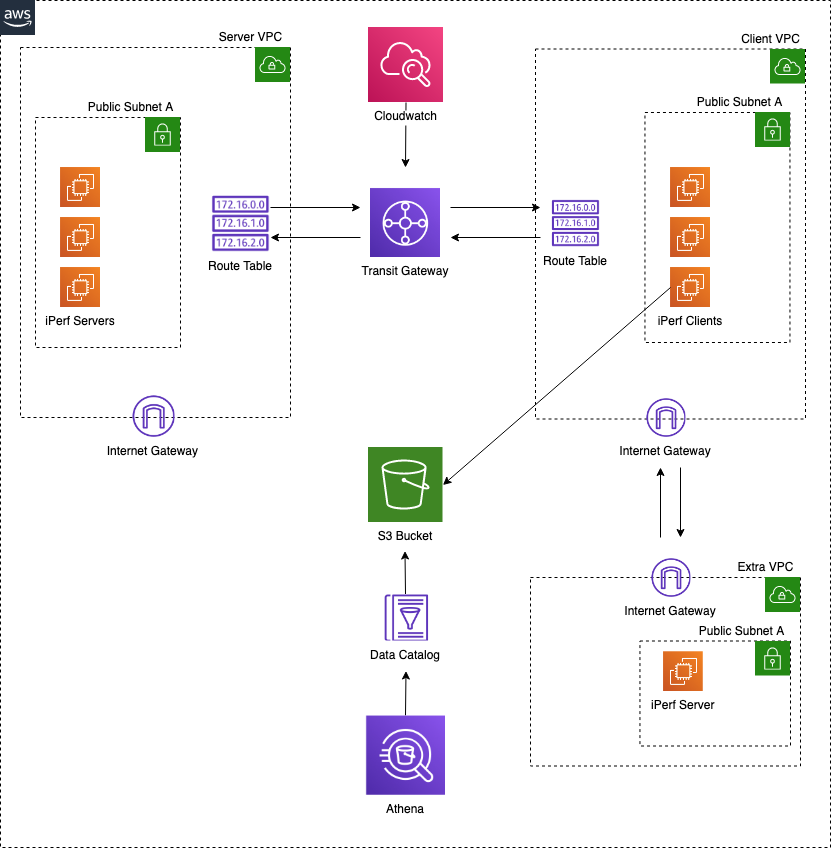
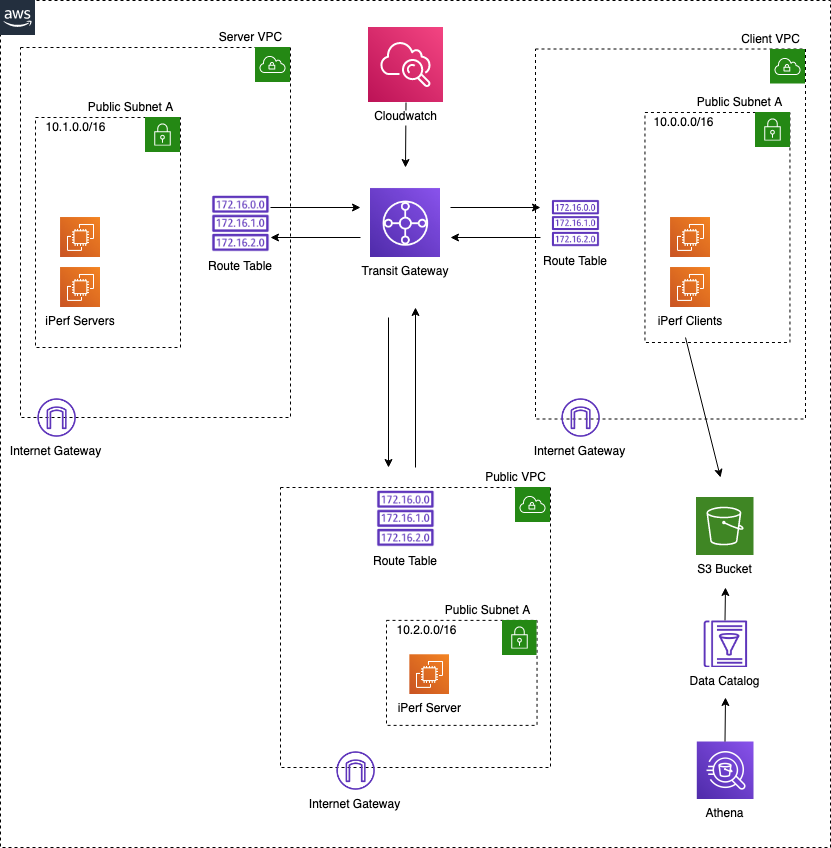
updates

diff --git a/README.md b/README.md
@@ -8,11 +8,9 @@ Proof of Concept to showcase the inter-VPC network speeds achieved with Transit 
 
 AWS Transit Gateway is a service that enables customers to connect their Amazon Virtual Private Clouds (VPCs) and their on-premises networks to a single gateway. As you grow the number of workloads running on AWS, you need to be able to scale your networks across multiple accounts and Amazon VPCs to keep up with the growth.
 
-With AWS Transit Gateway, you only have to create and manage a single connection from the central gateway in to each Amazon VPC, on-premises data center, or remote office across your network. Transit Gateway acts as a hub that controls how traffic is routed among all the connected networks which act like spokes. This hub and spoke model significantly simplifies management and reduces operational costs because each network only has to connect to the Transit Gateway and not to every other network. Any new VPC is simply connected to the Transit Gateway and is then automatically available to every other network that is connected to the Transit Gateway. This ease of connectivity makes it easy to scale your network as you grow.
-
 [via ![AWS Transit Gateway](https://aws.amazon.com/transit-gateway/)]
 
-Transit Gateway offers the following Performance and Limits:
+Transit Gateway offers the following bandwidth performance:
 
 **Maximum bandwidth (burst) per VPC, Direct Connect gateway, or peered Transit Gateway connection: 50 Gbps**
 
@@ -26,19 +24,61 @@ This GitHub Repository offers a cloudformation template to test this limit.
 
 ----
 
-## Tutorial
+## Deploying Cloudformation
 
-### Step 1: Deploy Cloudformation
+### Step 1A: Existing architecture
+
+Deploys iPerf3 EC2 client-server pairs in existing VPCs/subnets.
 
 - Download/Clone git repo
-- Go to Cloudformation Console and deploy cloudformation/master.yml
-- For Parameters, choose the public key you want for SSH access. 
-- There are two parameters pDebugTest and pFullTest
-  - pDebugTest will deploy 3 VPCs and 3 EC2s. 1 client / 1 server / 1 extra
-  - pFullTest will deploy 3 VPCs and 11 EC2s. 5 client / 5 server / 1 extra (this will ensure maximizing TGW bandwidth)
+- Go to Cloudformation Console and deploy cloudformation/master-existing-network.yml
+- Supply the cloudformation template with all of your existing network information (VPC IDs, Subnet IDs, etc.)
+- Important Parameters:
+  - **pCronExpression** determines the cron schedule that you want to run the iperf tests
+    - leave this field blank if you don't want to run iperf tests on a schedule
+    - leave this field blank if you'd like to use SSM Run Command instead
+  - **pFullTest** determines how many EC2's you'd like to deploy.
+    - pFullTest = false : good for cost-effective debugging
+    - pFullTest = true : will ensure maximizing TGW bandwidth
+
+### (Optional) Step 1B: New architecture
+
+Deploys an entirely brand new networking infrastructure.
+
+- Download/Clone git repo
+- Go to Cloudformation Console and deploy cloudformation/master-new-network.yml
+- Important Parameters:
+  - **pCronExpression** determines the cron schedule that you want to run the iperf tests
+    - leave this field blank if you don't want to run iperf tests on a schedule
+    - leave this field blank if you'd like to use SSM Run Command instead
+  - **pFullTest** determines how many EC2's you'd like to deploy.
+    - pFullTest = false : good for cost-effective debugging
+    - pFullTest = true : will ensure maximizing TGW bandwidth
 - Click next, then create.
 
-### Step 2: Setup Cloudwatch Dashboard
+## Performing iPerf3 Tests
+
+### Step 2A : Cron Task
+
+- If you left pCronExpression blank, move on to Step 2B. Otherwise:
+- The cron task will automatically execute based on the provided cron expression. There's nothing you need to do.
+- Wait 3-5 minutes for data to start trickling in.
+
+### (Optional) Step 2B : SSM Run Command
+
+- If you'd like to run commands on demand, you can use SSM Run Command
+- Example AWS CLI Commands:
+
+            aws ssm send-command --instance-ids "<ec2-instance-id" --document-name "AWS-RunShellScript" --comment "iPerf Test" --parameters commands=/iperf/transit-gateway-bandwidth-test/scripts/iperf3-log-to-s3.sh
+
+            aws ssm send-command \
+            --targets "Key=tag:Name,Values=iperf-client-to-server-1, iperf-client-to-server-2" \
+            --document-name "AWS-RunShellScript" \
+            --parameters commands=/iperf/transit-gateway-bandwidth-test/scripts/iperf3-log-to-s3.sh
+
+## Gaining Insights
+
+### Step 3A : Setup Cloudwatch Dashboard
 
 - Go to Cloudwatch console
 - Select Metrics -> Transit Gateway -> Per Transit Gateway Metrics -> Transit Gateway ID (if you don't know, its in VPC console) -> BytesIn + BytesOut
@@ -47,7 +87,7 @@ This GitHub Repository offers a cloudformation template to test this limit.
 - Configure the graph title, window range, and auto-refresh to your desired settings.
 - If you'd like to add to a Cloudwatch Dashboard: Select Actions -> Add to Dashboard
 
-### Step 3: Query EC2 iPerf3 Client data with Amazon Athena 
+### (Optional) Step 3B : Query EC2 iPerf3 Client data with Amazon Athena
 
 Note: This will not be data from TGW. This will be data from iperf3 client EC2s.
 
@@ -64,41 +104,24 @@ Note: This will not be data from TGW. This will be data from iperf3 client EC2s.
       PARTITIONED BY (d date)
       ROW FORMAT SERDE 'org.openx.data.jsonserde.JsonSerDe'
       LOCATION 's3://BUCKET_NAME/';
-      
+
 ----
-      
+
       MSCK REPAIR TABLE networkbenchmark;
 
 ----
 
-      SELECT 
+      SELECT
         round(CAST(min(interval.sum.bits_per_second)/1000000000 AS real),4) AS min,
         round(CAST(max(interval.sum.bits_per_second)/1000000000 AS real),4) AS max,
         round(CAST(avg(interval.sum.bits_per_second)/1000000000 AS real),4) AS avg,
         round(CAST(approx_percentile(interval.sum.bits_per_second, 0.95)/1000000000 AS real),4) AS percentile95,
         d,
-        region, 
-        instanceType 
+        region,
+        instanceType
       FROM networkbenchmark CROSS JOIN UNNEST(intervals) WITH ORDINALITY AS t(interval, counter)
       GROUP BY region, instanceType, d
       ORDER BY region, instanceType;
-
-
-### Test Internet Speeds from VPC to VPC outside of TGW (in pDebugTest Mode)
-
-- go to cloudformation console and go to tgw stack. 
-- click outputs and find extra ec2 instance IP Address (this ec2 sits in a separate VPC not connected via TGW)
-- ssh into client ec2 server
-      
-      ssh -i <private_key> ec2-user@<ip-address>
-      
-- crontab -e and delete the existing job to prevent anymore automated iperf tests.
-- run iperf3 test with extra ec2 instance IP address
-      
-      iperf3 -c <public-ip-address> -p 5201 -P 10 -t 30
- 
- - review speeds and compare with inter-tgw data
-
 
 ## Conclusion
 
@@ -114,8 +137,8 @@ A traffic testing package. Learn more here: https://iperf.fr/
 
 - **What's happening during cloudformation deployment?**
 
-The cloudformation template deploys two VPCs, both with public subnets and route tables, and a transit gateway with both VPCs attached.  Because Transit Gateway has a limit of 50GB/s and EC2s have a limit of 5 GB/s bandwidth, it is necessary to deploy at least 10 EC2s in both VPCs. One VPC will have ~10 EC2s acting as iPerf3 servers that accept traffic, the other VPC will have ~10 EC2s acting as iPerf3 clients that will send traffic.  Transit Gateway allows us to use the Private IP address of the iPerf3 server EC2s, ensuring that no traffic is publicly facing.
+The master-new-network cloudformation template deploys three VPCs, both with public subnets and route tables, and a transit gateway with both VPCs attached.  Because Transit Gateway has a limit of 50GB/s and  EC2s have bandwidth limits, it is necessary to deploy at least several EC2s in each VPC. Transit Gateway allows us to use the Private IP address of the iPerf3 server EC2s, ensuring that no traffic is publicly facing.
 
 - **How does the EC2 instance send traffic?**
 
-Upon creation, each EC2 instance will pull code from this github repository via the User Data.  The iperf3-log-to-s3.sh script does the iperf3 client to iperf3 server traffic command.  The results of the command are delivered into a json log file and uploaded to a specified S3 bucket for archived analysis. A cronjob task is set to run iperf3-log-to-s3.sh every minute, ensuring that traffic is continuously being sent from each iperf3 client to an iperf3 server.
+Upon creation, each EC2 instance will pull code from this github repository via the User Data.  The iperf3-log-to-s3.sh script does the iperf3 client to iperf3 server traffic command.  The results of the command are delivered into a json log file and uploaded to a specified S3 bucket for archived analysis.
